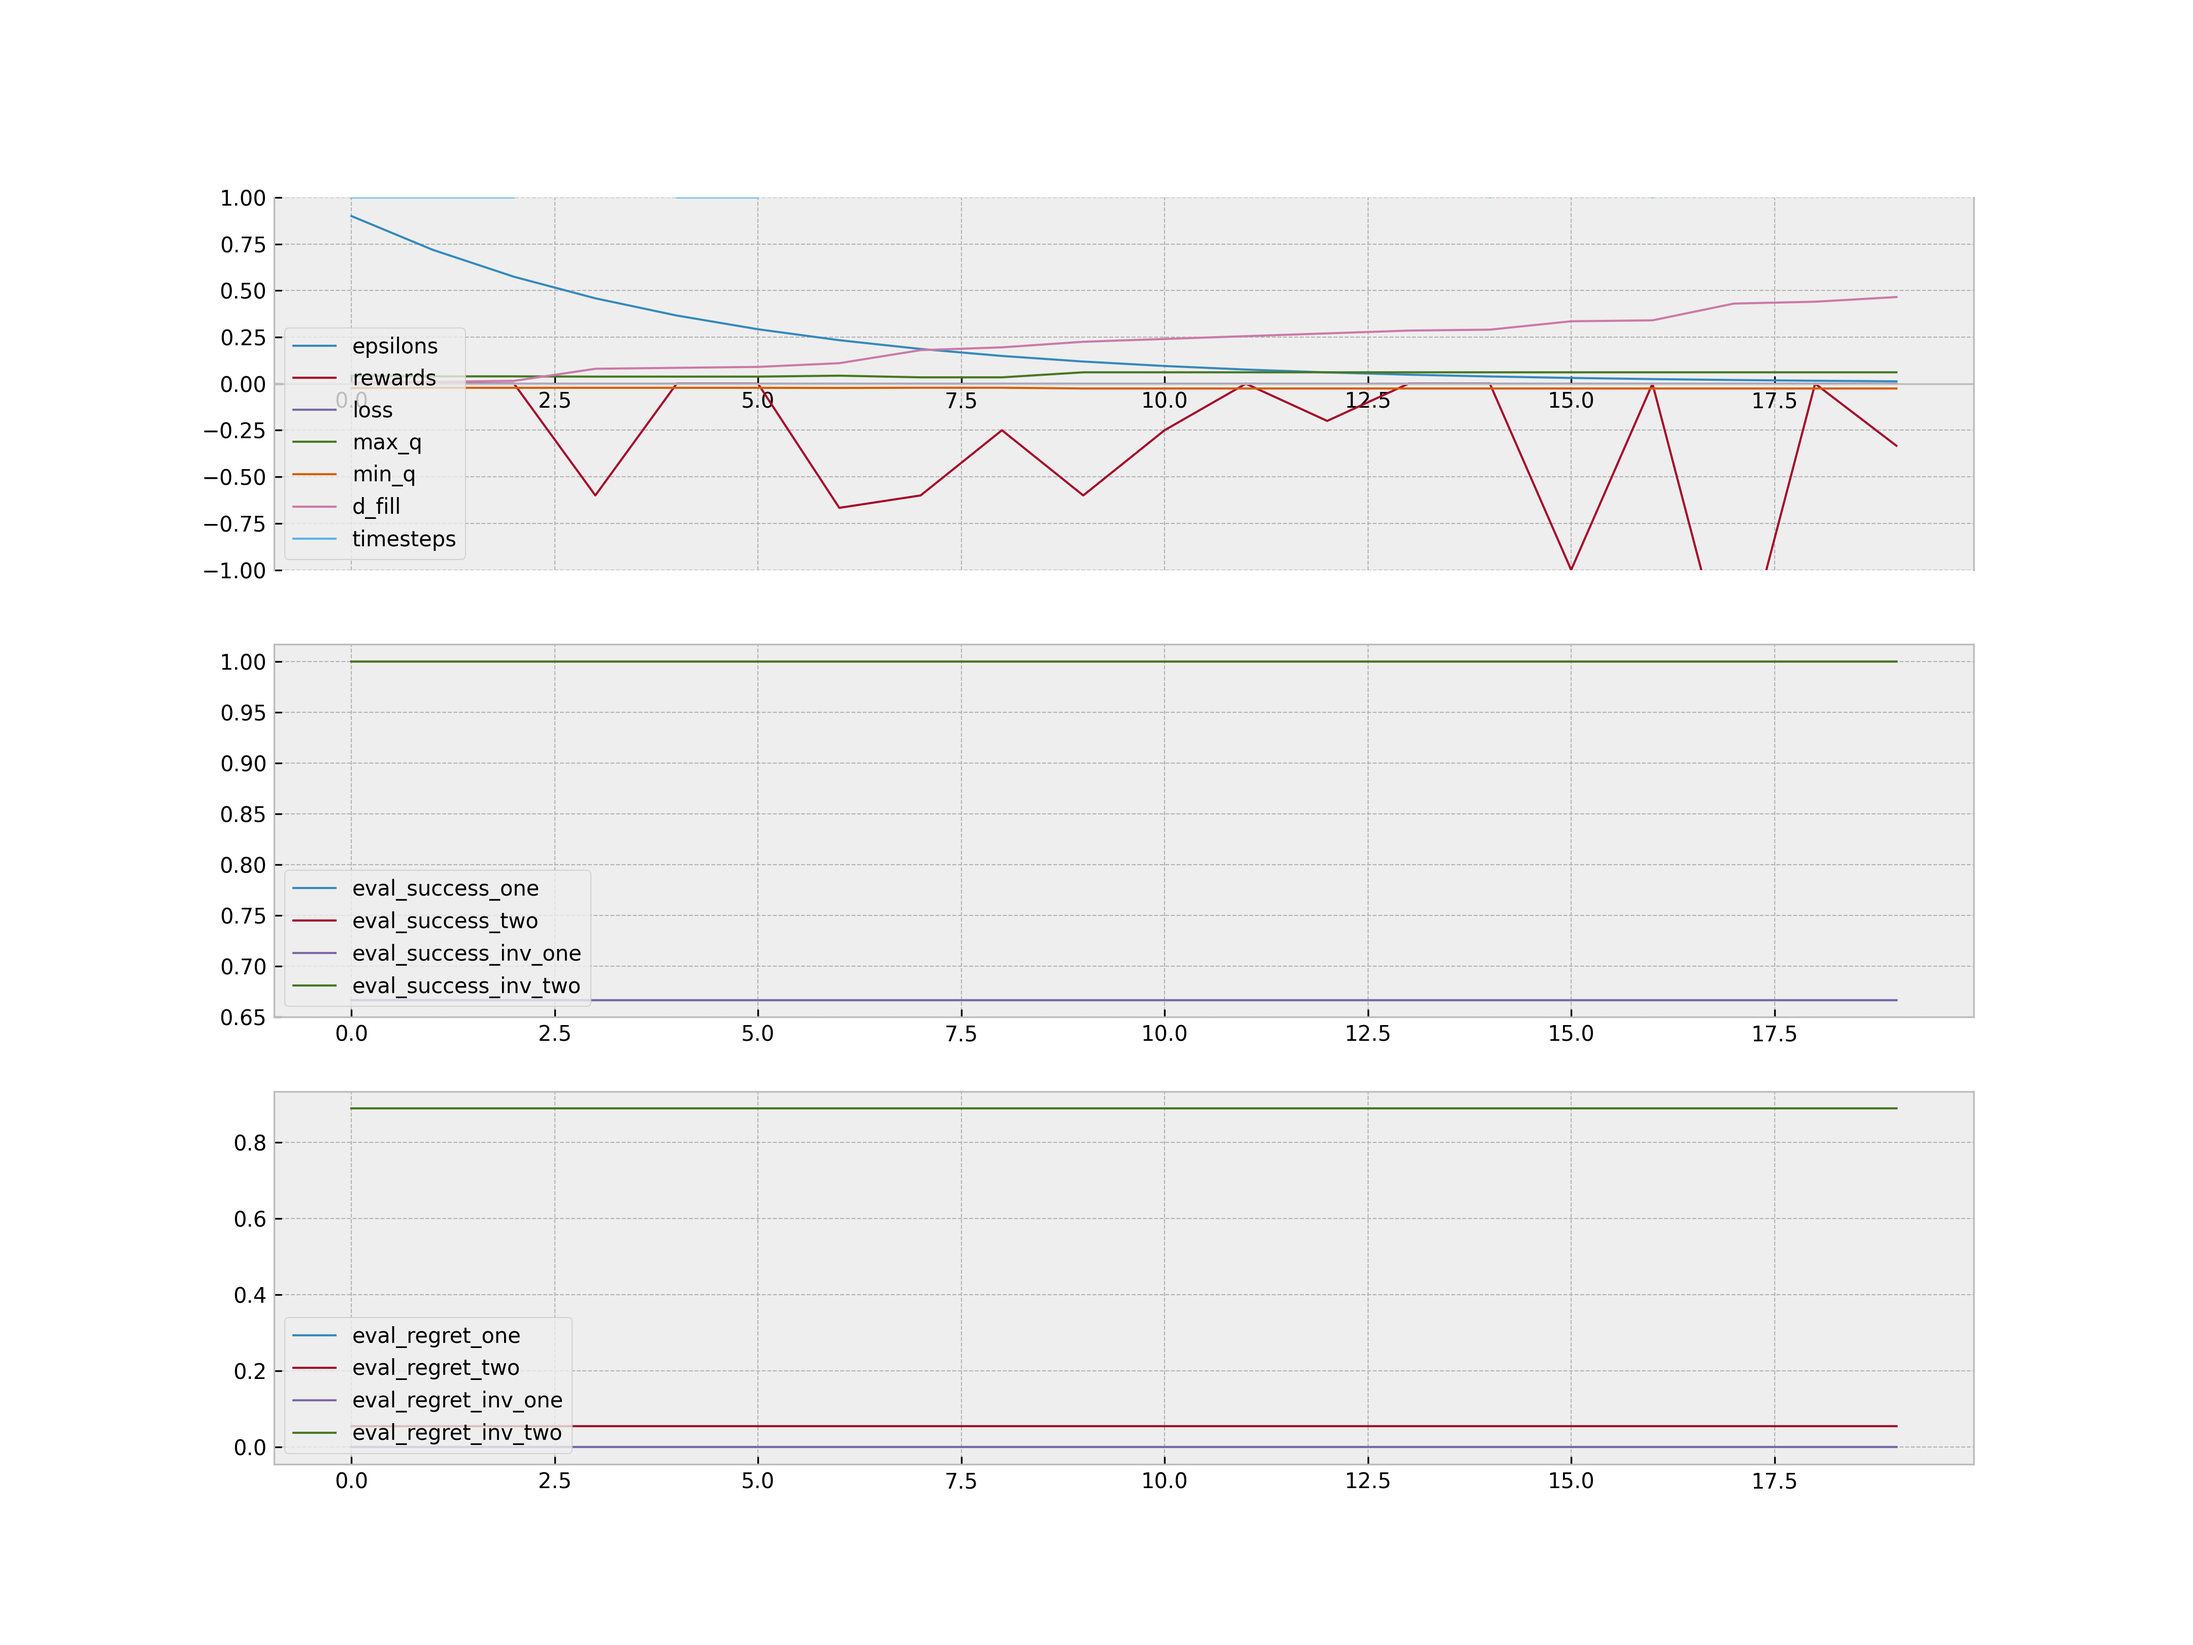
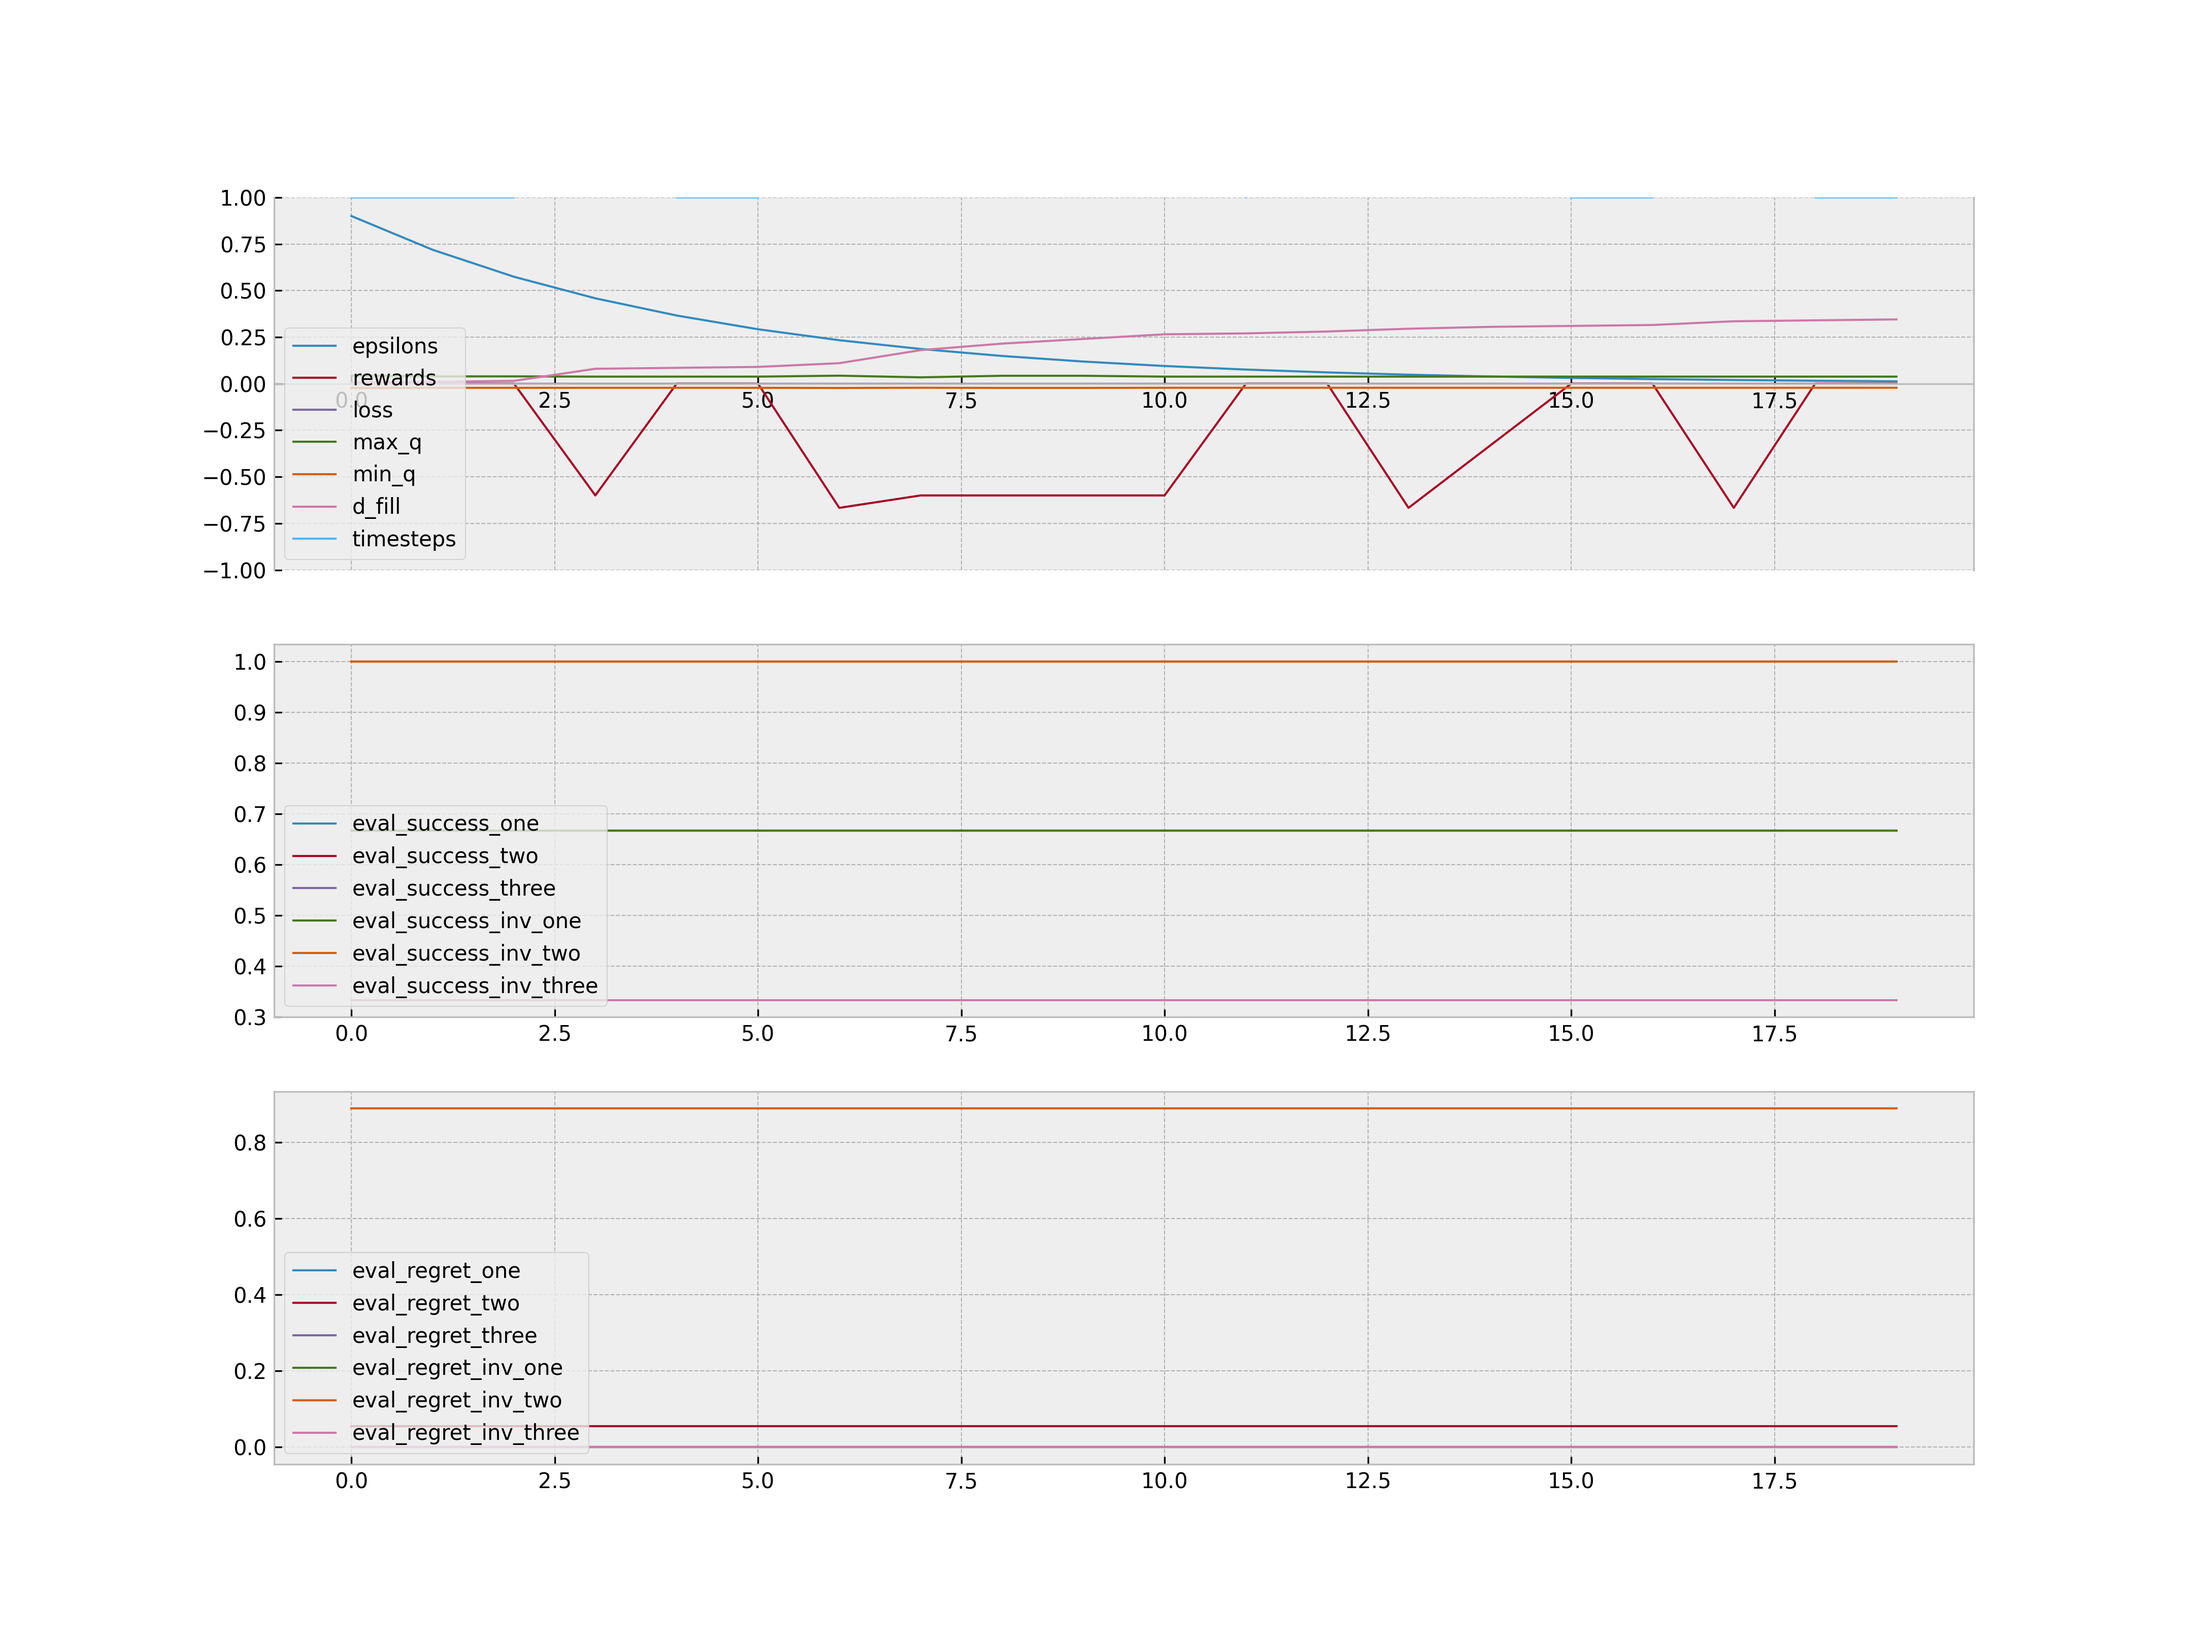
using new generator for learning

diff --git a/planner/mapf_with_rl/mapf_with_rl.py b/planner/mapf_with_rl/mapf_with_rl.py
@@ -13,7 +13,8 @@ import torch.nn.functional as F
 from definitions import INVALID, SCENARIO_TYPE
 from matplotlib import pyplot as plt
 from planner.mapf_with_rl.mapf_with_rl_plot import make_plot_from_json
-from scenarios.generators import (GENERATOR_TYPE, building_walls, random_fill,
+from scenarios.generators import (GENERATOR_TYPE, building_walls,
+                                  corridor_with_passing, random_fill,
                                   tracing_pathes_in_the_dark)
 from scenarios.solvers import cached_ecbs
 from sim.decentralized.agent import get_t_from_env
@@ -185,7 +186,7 @@ def make_useful_scenarios(n: int, ignore_finished_agents: bool, size: int,
                           n_agents: int, hop_dist: int,
                           generator: GENERATOR_TYPE,
                           rng: random.Random) -> List[Scenario]:
-    assert generator in [random_fill,
+    assert generator in [random_fill, corridor_with_passing,
                          tracing_pathes_in_the_dark, building_walls]
     if n == 1:
         try:
@@ -518,10 +519,13 @@ if __name__ == "__main__":
         "sim.decentralized.runner").setLevel(logging.ERROR)
 
     # debug run
+    logging.getLogger("sim.decentralized.runner").setLevel(logging.DEBUG)
     data_test = {"one": make_useful_scenarios(3, True, 4, 3, 3,
                                               random_fill, random.Random(0)),
                  "two": make_useful_scenarios(3, True, 8, 6, 3,
-                                              tracing_pathes_in_the_dark, random.Random(0))}
+                                              tracing_pathes_in_the_dark, random.Random(0)),
+                 "three": make_useful_scenarios(3, True, 12, 2, 3,
+                                                corridor_with_passing, random.Random(0))}
     stats = q_learning(
         n_episodes=20,
         eps_start=.9,
@@ -536,6 +540,8 @@ if __name__ == "__main__":
     )
     make_plot_from_json("debug")
 
+    # real run
+    logging.getLogger("sim.decentralized.runner").setLevel(logging.INFO)
     n_data_test = 100
     test_scenarios = {
         "small_random_fill": make_useful_scenarios(
@@ -544,6 +550,8 @@ if __name__ == "__main__":
             n_data_test, True, 8, 6, 3, tracing_pathes_in_the_dark, random.Random(0)),
         "big_building_walls": make_useful_scenarios(
             n_data_test, True, 8, 6, 3, building_walls, random.Random(0)),
+        "corridor_passing": make_useful_scenarios(
+            n_data_test, True, 8, 2, 3, corridor_with_passing, random.Random(0)),
     }
 
     n_runs = 8

diff --git a/sim/decentralized/runner.py b/sim/decentralized/runner.py
@@ -237,11 +237,13 @@ def run_a_scenario(env, agents, plot,
             space_progress += space_slice
             if any(time_progress > time_limit):
                 raise SimIterationException("timeout")
-            if print_progress:
-                finished = sum(map(lambda a: a.is_at_goal(), agents))
-                print(f"t:{max(time_progress)} finished: {finished}/{n_agents}")
+            finished = sum(map(lambda a: a.is_at_goal(), agents))
+            logger.debug(
+                f"t:{max(time_progress)} finished: {finished}/{n_agents}")
         successful = 1
+        logger.debug('success')
     except Exception as e:  # pragma: no cover
+        logger.debug(f'Exception: {e.__class__.__name__}, {e}')
         if isinstance(e, SimIterationException):
             pass  # logger.warning(e)
         elif pause_on is not None and isinstance(e, pause_on):  # type: ignore

diff --git a/scenarios/generators.py b/scenarios/generators.py
@@ -267,7 +267,8 @@ def sign(x):
         return 0
 
 
-def corridor_with_passing(size: int, n_agents: int, rng: random.Random):
+def corridor_with_passing(size: int, _: float, n_agents: int,
+                          rng: random.Random):
     """Scenarios where two agents have to pass each other in a corridor with
     one ore more passing points."""
     env = np.ones((size, size), dtype=np.int8)
@@ -324,7 +325,7 @@ def corridor_with_passing(size: int, n_agents: int, rng: random.Random):
                                                 midpoint[1] + y))
     if len(possible_passing_points) == 0:
         # retry
-        return corridor_with_passing(size, n_agents, rng)
+        return corridor_with_passing(size, 0, n_agents, rng)
     env[rng.choice(possible_passing_points)] = FREE
 
     # set starts and goals

diff --git a/sim/decentralized/runner_demo.py b/sim/decentralized/runner_demo.py
@@ -19,13 +19,13 @@ from tools import ProgressBar
 if __name__ == "__main__":  # pragma: no cover
     # scenario with corridor and one place to pass
     rng = random.Random(0)
-    (env, starts, goals) = corridor_with_passing(10, 2, rng)
+    (env, starts, goals) = corridor_with_passing(10, 0, 2, rng)
     plot_with_arrows(env, starts, goals)
     results = []
     n_runs = 100
     pb = ProgressBar("demo", n_runs, 10)
     for _ in range(n_runs):
-        (env, starts, goals) = corridor_with_passing(10, 2, rng)
+        (env, starts, goals) = corridor_with_passing(10, 0, 2, rng)
         agents = to_agent_objects(
             env, starts, goals, PolicyType.RANDOM, rng)
         res = run_a_scenario(env, agents, False, IteratorType.BLOCKING1,

diff --git a/scenarios/generators_test.py b/scenarios/generators_test.py
@@ -302,7 +302,7 @@ class TestGenerators(unittest.TestCase):
         size = 10
         # test if correct dimensions are returned
         (env, starts, goals) = corridor_with_passing(
-            size, 2, random.Random(0))
+            size, 0, 2, random.Random(0))
         self.assertEqual(env.shape, (10, 10))
         self.assertEqual(starts.shape, (2, 2))
         self.assertEqual(goals.shape, (2, 2))
